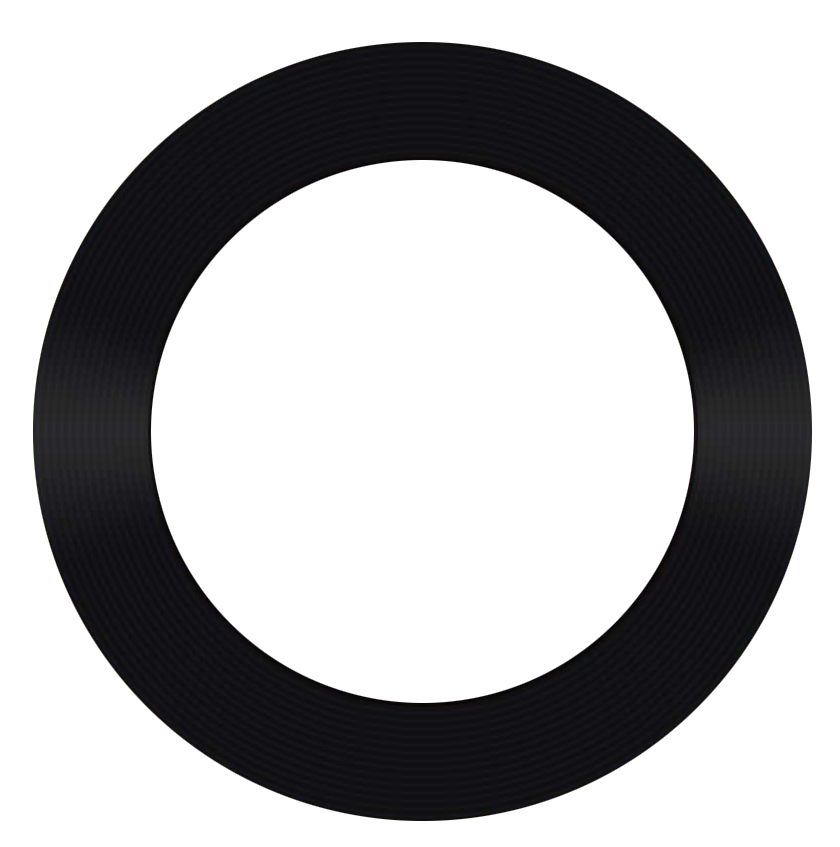
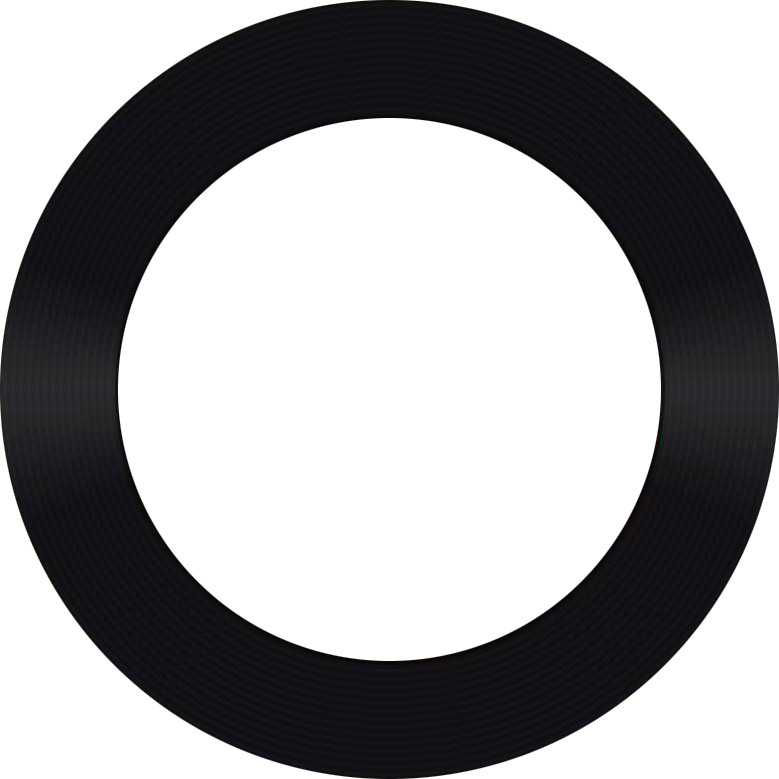
feat: add cover frame

Changed region(s): [[0.0, 0.0, 1.0, 1.0], [0.1232, 0.154, 0.8626, 0.8626]]

diff --git a/src/renderer/pages/cover/index.tsx b/src/renderer/pages/cover/index.tsx
@@ -15,6 +15,7 @@ import {
   selectTrack,
   selectSeek,
 } from "../../store/slices/player-status.slice";
+import CoverFrame from "../../static/cover-frame.png";
 import "./style.less";
 
 export default function PageCover() {
@@ -73,7 +74,9 @@ export default function PageCover() {
 
   return (
     <div className={"page-cover"}>
-      <div className={"cover"}></div>
+      <div className={"cover"}>
+        <img alt={"cover-frame"} src={CoverFrame} />
+      </div>
       <div className={"title"}>
         <span>{track?.title}</span>
       </div>

diff --git a/webpack/webpack.base.js b/webpack/webpack.base.js
@@ -7,7 +7,7 @@
  * @Description  : 
  */
 const path = require('path');
-const { lessLoader } = require('./rules');
+const { lessLoader, resourceLoader } = require('./rules');
 const { htmlPlugin } = require('./plugins');
 
 const srcPath = path.join(__dirname, '../src/renderer');
@@ -36,6 +36,7 @@ module.exports = {
   module: {
     rules: [
       lessLoader(srcPath),
+      resourceLoader(srcPath),
     ],
   },
   plugins: [

diff --git a/webpack/rules.js b/webpack/rules.js
@@ -79,9 +79,18 @@ function lessLoader(p) {
   }
 }
 
+function resourceLoader(p) {
+  return {
+    test: /\.png/i,
+    include: p,
+    type: "asset/resource",
+  }
+}
+
 module.exports = {
   jsRulesDev,
   jsRules,
   babelTsLoader,
   lessLoader,
+  resourceLoader,
 }

diff --git a/src/renderer/pages/cover/style.less b/src/renderer/pages/cover/style.less
@@ -11,8 +11,10 @@
   height: 60%;
   width: 60%;
   margin: 20px auto;
-  background-color: #71b15f;
-  border-radius: 50%;
+  img {
+    width: 100%;
+    height: 100%;
+  }
 }
 
 .title {

diff --git a/src/renderer/static/static.d.ts b/src/renderer/static/static.d.ts
@@ -1,0 +1,1 @@
+declare module "*.png";
